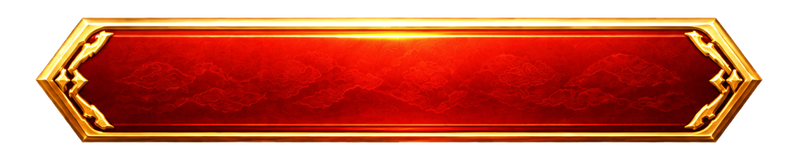
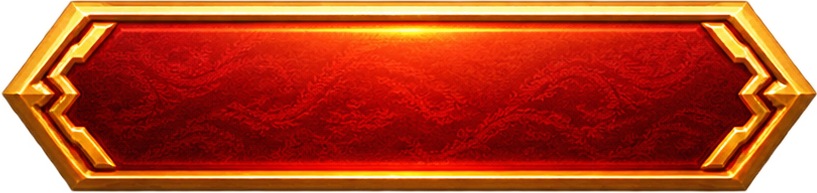
feat(ui): replace new game royal button assets

diff --git a/SanguoSLG.Game/scripts/ScenarioStartMenu.NewGame.cs b/SanguoSLG.Game/scripts/ScenarioStartMenu.NewGame.cs
@@ -36,6 +36,8 @@ public sealed partial class ScenarioStartMenu
     private static readonly Color NewGameMuted = new("b6aa94");
     private static readonly Dictionary<(bool Selected, string State, int Width, int Height), Texture2D>
         DifficultyTextureCache = new();
+    private static readonly Dictionary<(string Tier, string State, int Width, int Height), Texture2D>
+        FooterTextureCache = new();
     private static readonly HashSet<string> OfficialScenarioIds =
     [
         "historical-184", "historical-190", "historical-194",
@@ -109,18 +111,14 @@ public sealed partial class ScenarioStartMenu
         var key = (selected, state, width, height);
         if (!DifficultyTextureCache.TryGetValue(key, out var texture))
         {
-            // The supplied secondary hover/pressed PNGs contain a detached lower strip.
-            // Keep the intact normal artwork and express those states through tinting.
-            var sourceState = selected ? state : "normal";
-            var source = GD.Load<Texture2D>($"res://assets/ui/new_game/buttons/{kind}_{sourceState}.png");
+            var source = GD.Load<Texture2D>($"res://assets/ui/new_game/buttons/{kind}_{state}.png");
             using var original = source.GetImage();
             // 상태 이미지가 교체되어도 모서리 장식을 같은 비율로 보존한다.
             var side = Mathf.RoundToInt(original.GetWidth() * (selected ? 0.13f : 0.142f));
             var scaledSide = Mathf.RoundToInt(side * height / (float)original.GetHeight());
-            // Primary artwork has about 4.5% transparent padding on each side while
-            // secondary artwork reaches the canvas edge. Match their visible widths.
-            var horizontalInset = selected ? 0 : Mathf.RoundToInt(width * 0.045f);
-            var innerWidth = width - 2 * horizontalInset;
+            // 새 primary/secondary 세트는 같은 장식 폭과 투명 여백을 사용한다.
+            var horizontalInset = 0;
+            var innerWidth = width;
             var middleWidth = innerWidth - 2 * scaledSide;
             using var left = original.GetRegion(new Rect2I(0, 0, side, original.GetHeight()));
             using var middle = original.GetRegion(new Rect2I(side, 0,
@@ -143,11 +141,7 @@ public sealed partial class ScenarioStartMenu
         var style = new StyleBoxTexture
         {
             Texture = texture,
-            ModulateColor = selected || state == "normal"
-                ? Colors.White
-                : state == "pressed"
-                    ? new Color(0.84f, 0.84f, 0.84f, 1f)
-                    : new Color(1.12f, 1.12f, 1.12f, 1f)
+            ModulateColor = Colors.White
         };
         style.SetContentMarginAll(0);
         return style;
@@ -571,9 +565,12 @@ public sealed partial class ScenarioStartMenu
     private static TextureButton NewGameFooterAction(string name, string text, bool primary)
     {
         var tier = primary ? "primary" : "secondary";
-        var normalTexture = GD.Load<Texture2D>($"res://assets/ui/new_game/buttons/{tier}_normal.png");
-        var hoverTexture = GD.Load<Texture2D>($"res://assets/ui/new_game/buttons/{tier}_hover.png");
-        var pressedTexture = GD.Load<Texture2D>($"res://assets/ui/new_game/buttons/{tier}_pressed.png");
+        var normalSource = GD.Load<Texture2D>($"res://assets/ui/new_game/buttons/{tier}_normal.png");
+        var textureWidth = normalSource.GetWidth();
+        var textureHeight = normalSource.GetHeight();
+        var normalTexture = NewGameFooterTexture(tier, "normal", textureWidth, textureHeight);
+        var hoverTexture = NewGameFooterTexture(tier, "hover", textureWidth, textureHeight);
+        var pressedTexture = NewGameFooterTexture(tier, "pressed", textureWidth, textureHeight);
         var width = primary ? 370f : 286f;
         var height = width * normalTexture.GetHeight() / normalTexture.GetWidth();
         var button = new TextureButton
@@ -619,6 +616,20 @@ public sealed partial class ScenarioStartMenu
             ? new Color(1.12f, 1.12f, 1.12f)
             : Colors.White;
         return button;
+    }
+
+    private static Texture2D NewGameFooterTexture(string tier, string state, int width, int height)
+    {
+        var key = (tier, state, width, height);
+        if (FooterTextureCache.TryGetValue(key, out var cached)) return cached;
+        var source = GD.Load<Texture2D>($"res://assets/ui/new_game/buttons/{tier}_{state}.png");
+        using var image = source.GetImage();
+        // 제공된 상태별 PNG 캔버스가 1~5px씩 달라도 버튼 위치와 외곽선은 움직이지 않는다.
+        if (image.GetWidth() != width || image.GetHeight() != height)
+            image.Resize(width, height, Image.Interpolation.Lanczos);
+        var texture = ImageTexture.CreateFromImage(image);
+        FooterTextureCache[key] = texture;
+        return texture;
     }
 
     private static void SetFooterActionEnabled(TextureButton? button, bool enabled)
